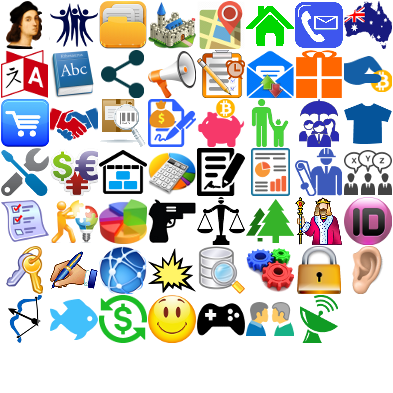
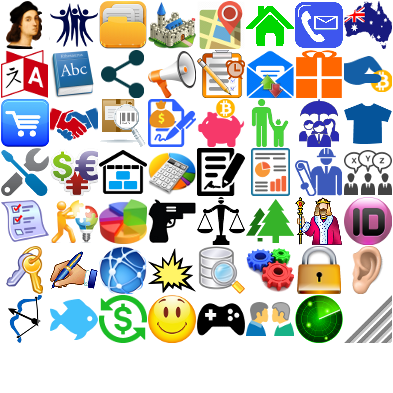
version 0.49 alpha

Changed region(s): [[0.7328, 0.7328, 1.0, 0.8855]]

diff --git a/pandora.rb b/pandora.rb
@@ -16108,7 +16108,7 @@ module PandoraGtk
       menu.show_all
 
       list_tree.add_events(Gdk::Event::BUTTON_PRESS_MASK)
-      list_tree.signal_connect('button_press_event') do |widget, event|
+      list_tree.signal_connect('button-press-event') do |widget, event|
         if (event.button == 3)
           menu.popup(nil, nil, event.button, event.time)
         end
@@ -17590,7 +17590,7 @@ module PandoraGtk
     menu.show_all
 
     treeview.add_events(Gdk::Event::BUTTON_PRESS_MASK)
-    treeview.signal_connect('button_press_event') do |widget, event|
+    treeview.signal_connect('button-press-event') do |widget, event|
       if (event.button == 3)
         menu.popup(nil, nil, event.button, event.time)
       end
@@ -19572,6 +19572,7 @@ module PandoraGtk
       ['Event', 'event:m', 'Events'],
       ['Request', 'request:m', 'Requests'],  #Gtk::Stock::SELECT_COLOR
       ['Session', 'session:m', 'Sessions', '<control>S'],   #Gtk::Stock::JUSTIFY_FILL
+      ['Fisher', 'fish:m', 'Fishers'],
       ['-', nil, '-'],
       ['Authorize', :auth, 'Authorize', '<control>U', :check], #Gtk::Stock::DIALOG_AUTHENTICATION
       ['Listen', :listen, 'Listen', '<control>L', :check],  #Gtk::Stock::CONNECT
@@ -19579,7 +19580,6 @@ module PandoraGtk
       ['Neighbor', :radar, 'Neighbors', '<control>N', :check],  #Gtk::Stock::GO_FORWARD
       ['Search', Gtk::Stock::FIND, 'Search', '<control>T'],
       ['Exchange', 'exchange:m', 'Exchange'],
-      ['Fisher', 'fish:m', 'Fishers'],
       ['-', nil, '-'],
       ['Profile', Gtk::Stock::HOME, 'Profile'],
       ['Wizard', Gtk::Stock::PREFERENCES, 'Wizards'],
@@ -20095,34 +20095,79 @@ module PandoraGtk
       add_status_field(SF_Auth, _('Not logged'), :auth, false) do
         do_menu_act('Authorize')          #Gtk::Stock::DIALOG_AUTHENTICATION
       end
-      add_status_field(SF_Listen, nil, :listen, false) do
+      add_status_field(SF_Listen, '0', :listen, false) do
         do_menu_act('Listen')
       end
-      add_status_field(SF_Hunt, nil, :hunt, false) do
+      add_status_field(SF_Hunt, '0', :hunt, false) do
         do_menu_act('Hunt')
       end
       add_status_field(SF_Fisher, '0', :fish) do
         do_menu_act('Fisher')
       end
-      add_status_field(SF_Conn, '0/0/0', :session) do
+      add_status_field(SF_Fish, '0', :radar, false) do
+        do_menu_act('Neighbor')
+      end
+      add_status_field(SF_Conn, '0', :session) do
         do_menu_act('Session')
       end
       #add_status_field(SF_Notice, '-') do
       #  do_menu_act('Notice')
       #end
-      add_status_field(SF_Search, '0', Gtk::Stock::FIND) do
-        do_menu_act('Search')
-      end
       add_status_field(SF_Harvest, '0', :blob) do
         do_menu_act('Blob')
       end
-      add_status_field(SF_Fish, '0', :radar, false) do
-        do_menu_act('Neighbor')
+      add_status_field(SF_Search, '0', Gtk::Stock::FIND) do
+        do_menu_act('Search')
       end
-      frame = Gtk::Frame.new
-      frame.width_request = 12
-      frame.shadow_type = Gtk::SHADOW_NONE
-      $statusbar.pack_start(frame, false, false, 0)
+      resize_eb = Gtk::EventBox.new
+      resize_eb.events = Gdk::Event::BUTTON_PRESS_MASK | Gdk::Event::POINTER_MOTION_MASK \
+        | Gdk::Event::ENTER_NOTIFY_MASK | Gdk::Event::LEAVE_NOTIFY_MASK \
+        | Gdk::Event::VISIBILITY_NOTIFY_MASK
+      resize_eb.signal_connect('enter-notify-event') do |widget, param|
+        window = widget.window
+        window.cursor = Gdk::Cursor.new(Gdk::Cursor::BOTTOM_RIGHT_CORNER)
+      end
+      resize_eb.signal_connect('leave-notify-event') do |widget, param|
+        window = widget.window
+        window.cursor = nil #Gdk::Cursor.new(Gdk::Cursor::XTERM)
+      end
+
+      $pointoff = nil
+      resize_eb.signal_connect('button-press-event') do |widget, event|
+        if (event.button == 1)
+          point = $window.window.pointer[1,2]
+          wh = $window.window.geometry[2,3]
+          $pointoff = [(wh[0]-point[0]), (wh[1]-point[1])]
+          if $window.window.state == Gdk::EventWindowState::MAXIMIZED
+            w, h = [(point[0]+$pointoff[0]), (point[1]+$pointoff[1])]
+            $window.move(0, 0)
+            $window.set_default_size(w-2, h-2)
+            $window.resize(w-2, h-2)
+            $window.unmaximize
+          end
+        end
+        false
+      end
+      resize_eb.signal_connect('motion-notify-event') do |widget, event|
+        if $pointoff
+          point = $window.window.pointer[1,2]
+          $window.resize((point[0]+$pointoff[0]), (point[1]+$pointoff[1]))
+        end
+        false
+      end
+      resize_eb.signal_connect('button-release-event') do |widget, event|
+        if (event.button == 1) and $pointoff
+          window = widget.window
+          $pointoff = nil
+        end
+        false
+      end
+      $window.register_stock(:resize)
+      resize_image = Gtk::Image.new(:resize, Gtk::IconSize::MENU)
+      resize_image.set_padding(0, 0)
+      resize_image.set_alignment(1, 1)
+      resize_eb.add(resize_image)
+      $statusbar.pack_start(resize_eb, false, false, 0)
 
       vbox = Gtk::VBox.new
       vbox.pack_start(menubar, false, false, 0)
